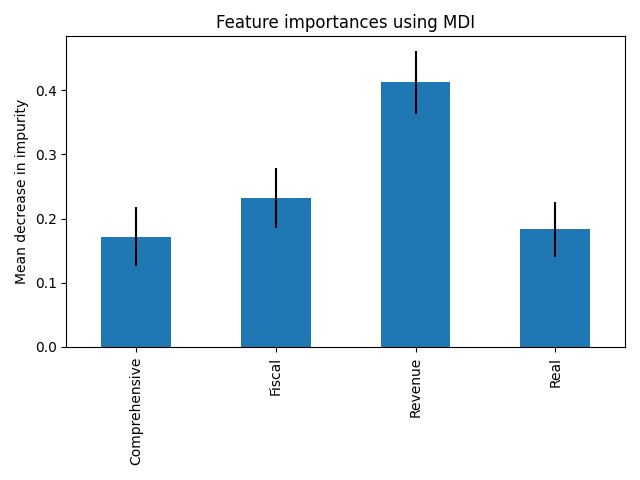
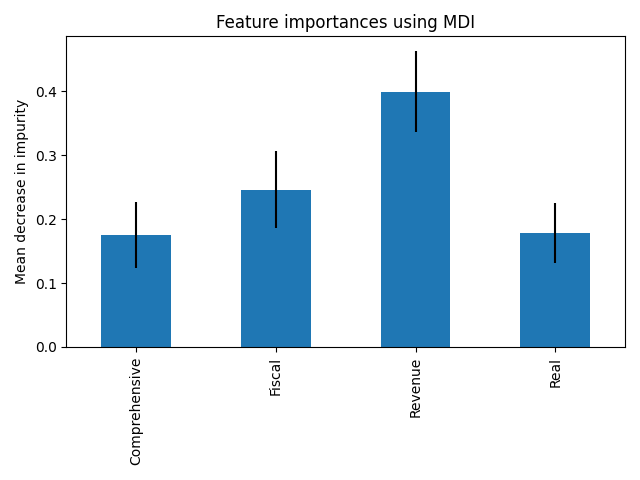
fixed baseline linear regression
fixed baseline lienar regression so it scales properly when measuring MSE

diff --git a/baseline_linear_regression_feature_engineering.py b/baseline_linear_regression_feature_engineering.py
@@ -92,17 +92,6 @@ def feature_engineering():
         train_data = pd.concat([train_data, train], ignore_index=True)
         test_data = pd.concat([test_data, test], ignore_index=True)                                                 
 
-    # scale data
-    scaler = StandardScaler()
-    scaler.fit(train_data[all_features])
-    train_data[all_features] = scaler.transform(train_data[all_features])
-    scaler.fit(test_data[all_features])
-    test_data[all_features] = scaler.transform(test_data[all_features])
-    scaler.fit(train_data[outcomes])
-    train_data[outcomes] = scaler.transform(train_data[outcomes])
-    scaler.fit(test_data[outcomes])
-    test_data[outcomes] = scaler.transform(test_data[outcomes])
-
     class LinearRegression(nn.Module):
         def __init__(self, num_features):
             super(LinearRegression, self).__init__()
@@ -113,6 +102,16 @@ def feature_engineering():
 
     for outcome in outcomes:
         for features in feature_combinations:
+            # scale data
+            feature_scaler = StandardScaler()
+            feature_scaler.fit(train_data[all_features])
+            train_data[all_features] = feature_scaler.transform(train_data[all_features])
+            test_data[all_features] = feature_scaler.transform(test_data[all_features])
+            outcome_scaler = StandardScaler()
+            outcome_scaler.fit(train_data[[outcome]])
+            train_data[outcome] = outcome_scaler.transform(train_data[[outcome]])
+            test_data[outcome] = outcome_scaler.transform(test_data[[outcome]])
+
             x_train = torch.from_numpy(train_data[features].to_numpy()).type(torch.float32)
             x_test = torch.from_numpy(test_data[features].to_numpy()).type(torch.float32)
             y_train = torch.from_numpy(train_data[outcome].to_numpy()).type(torch.float32)
@@ -132,12 +131,20 @@ def feature_engineering():
 
             predictions = model(x_test).squeeze()
 
+            # transform the data back
+            predictions_original = outcome_scaler.inverse_transform(predictions.detach().numpy().reshape(-1, 1))
+            y_test_original = outcome_scaler.inverse_transform(y_test.numpy().reshape(-1, 1))
+
+            # convert to tensor
+            predictions_tensor = torch.from_numpy(predictions_original).type(torch.float32)
+            y_test_tensor = torch.from_numpy(y_test_original).type(torch.float32)
+            
             # compute MSE
-            mse = criterion(predictions.squeeze(), y_test)
+            mse = criterion(predictions_tensor.squeeze(), y_test_tensor.squeeze())
 
             # compute r2 score
-            predictions_np = predictions.detach().numpy()
-            y_test_np = y_test.detach().numpy()
+            predictions_np = predictions_original
+            y_test_np = y_test_original
             r2 = r2_score(y_test_np, predictions_np)
 
             # update dictionary of scores

diff --git a/baseline_linear_regression.py b/baseline_linear_regression.py
@@ -93,18 +93,6 @@ outcome2 = "Balance of Urban Investment Bond(CNY,B) / GDP(CNY,B)"
 feature_combinations = [features1, features2] # list of lists of feature combinations
 outcomes = [outcome1, outcome2] # list of possible outcomes
                                                                 
-
-# scale data
-scaler = StandardScaler()
-scaler.fit(train_data[all_features])
-train_data[all_features] = scaler.transform(train_data[all_features])
-scaler.fit(test_data[all_features])
-test_data[all_features] = scaler.transform(test_data[all_features])
-scaler.fit(train_data[outcomes])
-train_data[outcomes] = scaler.transform(train_data[outcomes])
-scaler.fit(test_data[outcomes])
-test_data[outcomes] = scaler.transform(test_data[outcomes])
-
 class LinearRegression(nn.Module):
     def __init__(self, num_features):
         super(LinearRegression, self).__init__()
@@ -115,6 +103,16 @@ class LinearRegression(nn.Module):
 
 for features in feature_combinations:
     for outcome in outcomes:
+        # scale data
+        feature_scaler = StandardScaler()
+        feature_scaler.fit(train_data[all_features])
+        train_data[all_features] = feature_scaler.transform(train_data[all_features])
+        test_data[all_features] = feature_scaler.transform(test_data[all_features])
+        outcome_scaler = StandardScaler()
+        outcome_scaler.fit(train_data[[outcome]])
+        train_data[outcome] = outcome_scaler.transform(train_data[[outcome]])
+        test_data[outcome] = outcome_scaler.transform(test_data[[outcome]])
+
         x_train = torch.from_numpy(train_data[features].to_numpy()).type(torch.float32)
         x_test = torch.from_numpy(test_data[features].to_numpy()).type(torch.float32)
         y_train = torch.from_numpy(train_data[outcome].to_numpy()).type(torch.float32)
@@ -136,9 +134,20 @@ for features in feature_combinations:
 
         predictions = model(x_test).squeeze()
 
+        # transform the data back
+        predictions_original = outcome_scaler.inverse_transform(predictions.detach().numpy().reshape(-1, 1))
+        y_test_original = outcome_scaler.inverse_transform(y_test.numpy().reshape(-1, 1))
+
+        # convert to tensor
+        predictions_tensor = torch.from_numpy(predictions_original).type(torch.float32)
+        y_test_tensor = torch.from_numpy(y_test_original).type(torch.float32)
+        
+        # compute MSE
+        mse = criterion(predictions_tensor.squeeze(), y_test_tensor.squeeze())
+
         print(f'Features: {features}')
         print(f'Outcome: {outcome}')
-        print(f'Test Set MSE: {criterion(predictions.squeeze(), y_test)}')
+        print(f'Test Set MSE: {mse}')
 
         plt.clf()
         plt.scatter(x_test[:, 0].numpy(), predictions.detach().numpy(), label='Predictions', alpha=0.4, color='blue') # pick one item on x_axis

diff --git a/baseline_linear_regression_best_features.py b/baseline_linear_regression_best_features.py
@@ -95,15 +95,14 @@ def lin_reg(outcome, features, num):
         test_data = pd.concat([test_data, test], ignore_index=True)                                                 
 
     # scale data
-    scaler = StandardScaler()
-    scaler.fit(train_data[all_features])
-    train_data[all_features] = scaler.transform(train_data[all_features])
-    scaler.fit(test_data[all_features])
-    test_data[all_features] = scaler.transform(test_data[all_features])
-    scaler.fit(train_data[outcomes])
-    train_data[outcomes] = scaler.transform(train_data[outcomes])
-    scaler.fit(test_data[outcomes])
-    test_data[outcomes] = scaler.transform(test_data[outcomes])
+    feature_scaler = StandardScaler()
+    feature_scaler.fit(train_data[all_features])
+    train_data[all_features] = feature_scaler.transform(train_data[all_features])
+    test_data[all_features] = feature_scaler.transform(test_data[all_features])
+    outcome_scaler = StandardScaler()
+    outcome_scaler.fit(train_data[[outcome]])
+    train_data[outcome] = outcome_scaler.transform(train_data[[outcome]])
+    test_data[outcome] = outcome_scaler.transform(test_data[[outcome]])
 
     class LinearRegression(nn.Module):
         def __init__(self, num_features):
@@ -132,12 +131,20 @@ def lin_reg(outcome, features, num):
 
     predictions = model(x_test).squeeze()
 
+    # transform the data back
+    predictions_original = outcome_scaler.inverse_transform(predictions.detach().numpy().reshape(-1, 1))
+    y_test_original = outcome_scaler.inverse_transform(y_test.numpy().reshape(-1, 1))
+
+    # convert to tensor
+    predictions_tensor = torch.from_numpy(predictions_original).type(torch.float32)
+    y_test_tensor = torch.from_numpy(y_test_original).type(torch.float32)
+    
     # compute MSE
-    mse = criterion(predictions.squeeze(), y_test)
+    mse = criterion(predictions_tensor.squeeze(), y_test_tensor.squeeze())
 
     # compute r2 score
-    predictions_np = predictions.detach().numpy()
-    y_test_np = y_test.detach().numpy()
+    predictions_np = predictions_original
+    y_test_np = y_test_original
     r2 = r2_score(y_test_np, predictions_np)
 
     print(f'MSE: {mse}')
